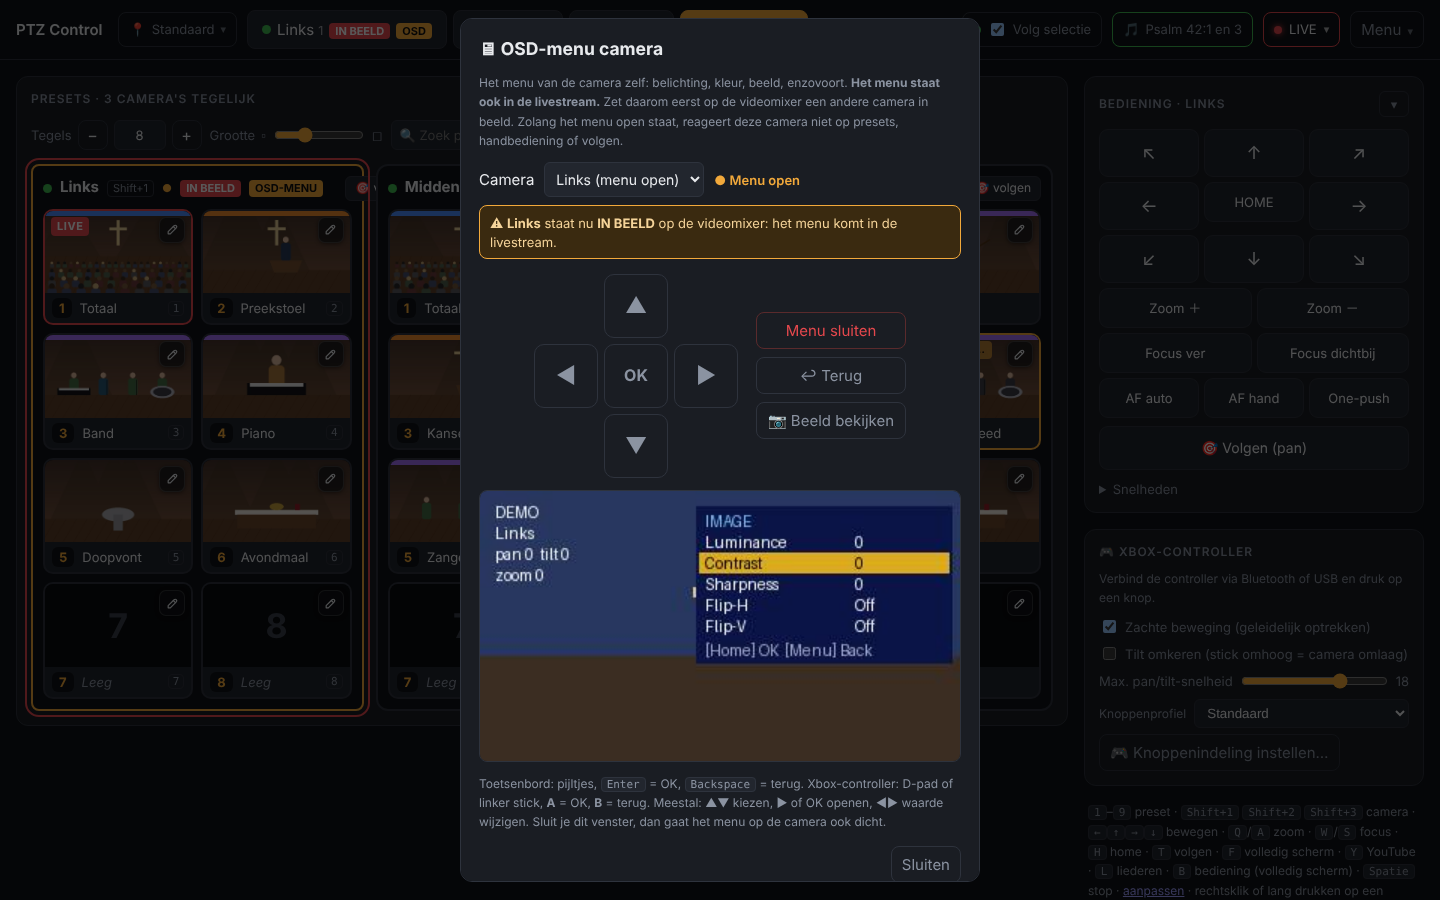
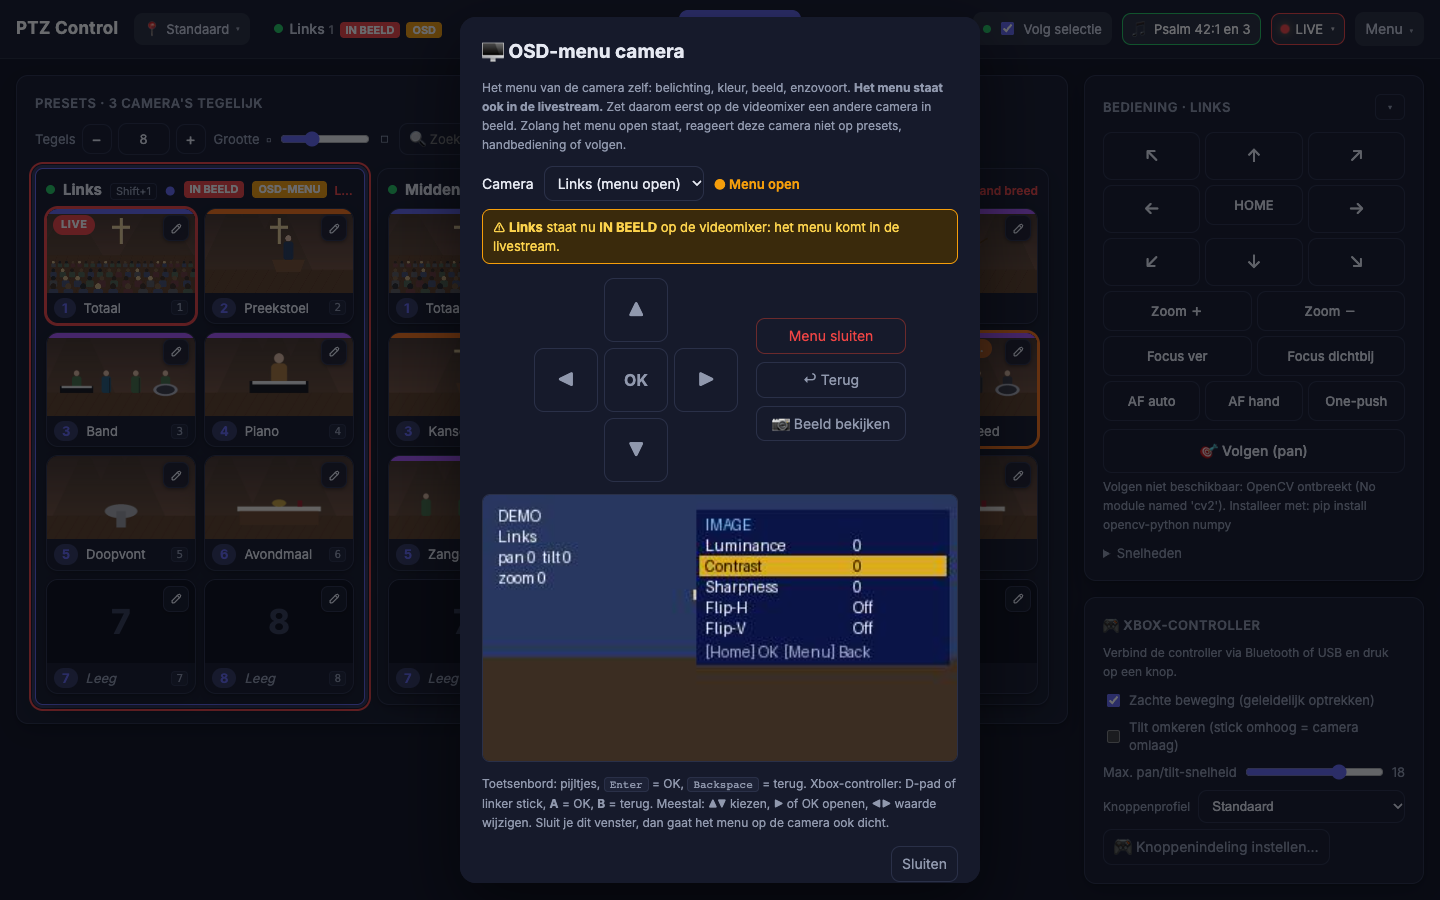
Vormgeving volgens de Voordienst-huisstijl
Plaatsing ongewijzigd, alleen kleuren, lettertype, afronding en schaduw:
- indigo als hoofdkleur (selectie, actief tabblad, primaire knoppen)
- donkere kopbalk, witte kaarten en tegels met zachte schaduw
- nieuwe variabelen --warn (amber, let op) en --busy (oranje, onderweg/oefenstand)
- Inter via Google Fonts, niet-blokkerend met terugval op system-ui
- licht en donker thema allebei in de nieuwe stijl

Screenshots opnieuw gemaakt, rondleiding getest (39 stappen, 3 schermformaten).

diff --git a/index.html b/index.html
@@ -5,6 +5,9 @@
 <meta name="viewport" content="width=device-width, initial-scale=1, user-scalable=no">
 <title>PTZ Control</title>
 <link rel="icon" href="data:,">
+<link rel="preconnect" href="https://fonts.gstatic.com" crossorigin>
+<!-- Inter (huisstijl) niet-blokkerend laden: zonder internet valt hij terug op system-ui en tekent de pagina meteen -->
+<link rel="stylesheet" href="https://fonts.googleapis.com/css2?family=Inter:wght@400;500;600;700&display=swap" media="print" onload="this.media='all'">
 <script>
   // thema vóór het tekenen zetten (geen witte/zwarte flits)
   (function () {
@@ -15,33 +18,44 @@
 </script>
 <style>
   /* Thema: donker (standaard) en licht. Keuze per apparaat via het menu (localStorage.theme: auto/dark/light). */
+  /* Huisstijl (gebaseerd op Voordienst): rustig, licht, één accentkleur (indigo), donkere kopbalk.
+     --accent = hoofdkleur (selectie, actief, primaire knop); --live = LIVE/fout (rood); --ok = groen;
+     --warn = let op (amber); --busy = onderweg/oefenstand (oranje). Huisstijl aanpassen = alleen deze variabelen. */
   :root {
-    --tourdim: rgba(0,0,0,.62);
+    --tourdim: rgba(5,6,12,.6);
     color-scheme: dark;
-    --bg: #111317; --panel: #1a1d23; --panel2: #22262e; --line: #2e333d;
-    --text: #e8eaed; --muted: #8b93a1; --accent: #f2a93b; --live: #e5484d; --ok: #3fb950;
-    --img: #0b0c0f; --imgtxt: #3a404c; --onaccent: #1a1200;
-    --okbg: #12301c; --oktxt: #7ee2a0; --warnbg: #3a2a10; --warntxt: #f5d49a; --errbg: #2b1416; --errline: #5a2a2c;
-    --shadow: rgba(0,0,0,.45); --backdrop: rgba(0,0,0,.65);
-    --editbg: rgba(17,19,23,.72); --editfg: #e8eaed; --editline: rgba(255,255,255,.14);
-    --mixoff: #2a2e36; --mixgreen: #2f9e4f; --mixred: #e5484d; --mixtxt: #ffffff; --logbg: #0d0f12;
-    --pc-rood: #e5484d; --pc-oranje: #f08c2e; --pc-geel: #e8c33c; --pc-groen: #3fb950; --pc-blauw: #4c8dff; --pc-paars: #a371f7;
+    --bg: #0f1220; --panel: #161a2b; --panel2: #1d2236; --line: #2a3048; --hover: #262c44;
+    --text: #e6e9f2; --muted: #9098ad; --accent: #6366f1; --accentdark: #4f46e5; --ring: rgba(129,140,248,.25);
+    --live: #ef4444; --ok: #22c55e; --warn: #f59e0b; --busy: #f97316; --onbusy: #ffffff;
+    --img: #0b0d18; --imgtxt: #343b55; --onaccent: #ffffff;
+    --okbg: #0f2e1b; --oktxt: #86efac; --okline: #166534; --warnbg: #3a2a0c; --warntxt: #fcd34d; --errbg: #3a1416; --errline: #6b2a2c;
+    --shadow: rgba(0,0,0,.45); --backdrop: rgba(5,6,12,.6);
+    --cardshadow: 0 1px 3px rgba(0,0,0,.35), 0 8px 24px rgba(0,0,0,.25);
+    --modalshadow: 0 24px 64px rgba(0,0,0,.5);
+    --hdr: #161a2b; --hdrtxt: #c7ccdb; --hdrbtn: rgba(255,255,255,.08); --hdrhover: rgba(255,255,255,.16); --hdrline: rgba(255,255,255,.07);
+    --editbg: rgba(22,26,43,.85); --editfg: #e6e9f2; --editline: #2a3048;
+    --mixoff: #2a3048; --mixgreen: #22c55e; --mixred: #ef4444; --mixtxt: #ffffff; --logbg: #0f1220;
+    --pc-rood: #ef4444; --pc-oranje: #f97316; --pc-geel: #eab308; --pc-groen: #22c55e; --pc-blauw: #6366f1; --pc-paars: #a855f7;
   }
   :root[data-theme=light] {
-    --tourdim: rgba(20,24,32,.45);
+    --tourdim: rgba(15,18,33,.45);
     color-scheme: light;
-    --bg: #f3f4f6; --panel: #ffffff; --panel2: #eceef2; --line: #d3d8e0;
-    --text: #16181d; --muted: #5d6573; --accent: #e09415; --live: #d6343a; --ok: #1f8f3d;
-    --img: #dde1e7; --imgtxt: #a3abb8; --onaccent: #1a1200;
-    --okbg: #dcf3e2; --oktxt: #17692f; --warnbg: #fff1d6; --warntxt: #7a4a00; --errbg: #fde6e6; --errline: #efb4b6;
-    --shadow: rgba(20,24,32,.18); --backdrop: rgba(20,24,32,.45);
-    --editbg: rgba(255,255,255,.88); --editfg: #2b303a; --editline: rgba(20,24,32,.14);
-    --mixoff: #c9ced6; --mixgreen: #2a9d4b; --mixred: #d6343a; --mixtxt: #ffffff; --logbg: #f7f8fa;
-    --pc-rood: #d6343a; --pc-oranje: #e07b14; --pc-geel: #c9a10e; --pc-groen: #1f8f3d; --pc-blauw: #2f6fe0; --pc-paars: #8250df;
+    --bg: #f4f6fb; --panel: #ffffff; --panel2: #f7f8fc; --line: #e3e7ef; --hover: #f0f2f8;
+    --text: #1c2333; --muted: #6b7488; --accent: #4f46e5; --accentdark: #4338ca; --ring: rgba(79,70,229,.12);
+    --live: #dc2626; --ok: #16a34a; --warn: #d97706; --busy: #ea580c; --onbusy: #ffffff;
+    --img: #e8ebf2; --imgtxt: #b4bccb; --onaccent: #ffffff;
+    --okbg: #dcfce7; --oktxt: #166534; --okline: #bbf7d0; --warnbg: #fef3c7; --warntxt: #92400e; --errbg: #fee2e2; --errline: #f3c4c4;
+    --shadow: rgba(20,25,45,.12); --backdrop: rgba(15,18,33,.45);
+    --cardshadow: 0 1px 3px rgba(20,25,45,.08), 0 8px 24px rgba(20,25,45,.05);
+    --modalshadow: 0 24px 64px rgba(15,18,33,.3);
+    --hdr: #161a2b; --hdrtxt: #c7ccdb; --hdrbtn: rgba(255,255,255,.08); --hdrhover: rgba(255,255,255,.16); --hdrline: rgba(255,255,255,.07);
+    --editbg: rgba(255,255,255,.9); --editfg: #1c2333; --editline: #e3e7ef;
+    --mixoff: #e3e7ef; --mixgreen: #16a34a; --mixred: #dc2626; --mixtxt: #ffffff; --logbg: #f7f8fc;
+    --pc-rood: #dc2626; --pc-oranje: #ea580c; --pc-geel: #d97706; --pc-groen: #16a34a; --pc-blauw: #4f46e5; --pc-paars: #9333ea;
   }
   * { box-sizing: border-box; -webkit-tap-highlight-color: transparent; }
   html, body { margin: 0; background: var(--bg); color: var(--text);
-    font: 15px/1.4 system-ui, -apple-system, "Segoe UI", sans-serif; user-select: none; -webkit-user-select: none; }
+    font: 14px/1.4 "Inter", "Segoe UI", system-ui, -apple-system, sans-serif; user-select: none; -webkit-user-select: none; }
   button { font: inherit; color: inherit; }
 
   header { display: flex; align-items: center; gap: 10px; padding: 10px 16px; border-bottom: 1px solid var(--line);
@@ -114,8 +128,8 @@
   .trk { margin-left: 6px; padding: 3px 9px; border-radius: 6px; border: 1px solid var(--line); background: var(--panel2);
     font-size: 12px; cursor: pointer; white-space: nowrap; }
   .trk.on { background: var(--okbg); border-color: var(--ok); color: var(--oktxt); }
-  .trk.wait { border-color: var(--accent); color: var(--accent); }
-  .trk.warn { background: var(--warnbg); border-color: var(--accent); color: var(--accent); }
+  .trk.wait { border-color: var(--warn); color: var(--warn); }
+  .trk.warn { background: var(--warnbg); border-color: var(--warn); color: var(--warntxt); }
   .tile .tb { position: absolute; bottom: 38px; right: 6px; background: var(--okbg); color: var(--oktxt);
     font-size: 11px; padding: 1px 6px; border-radius: 4px; }
   .camrow2 { display: grid; grid-template-columns: 2.5fr 1fr 1.2fr; gap: 6px; margin: -2px 0 12px; padding-bottom: 10px;
@@ -166,9 +180,9 @@
   #dlgMap .padset { display: flex; justify-content: space-between; align-items: center; flex-wrap: wrap; }
   #padMap .hit { outline: 2px solid var(--accent); outline-offset: 1px; border-radius: 4px; }
   /* onderweg naar een preset, status per camera, kleurlabels, verslepen, sneltoets, ongedaan maken */
-  .tile.moving { border-color: var(--accent); }
-  .tile.moving::after { content: "ONDERWEG…"; position: absolute; top: 6px; left: 6px; background: var(--accent); color: var(--onaccent);
-    font-size: 11px; font-weight: 700; padding: 1px 6px; border-radius: 4px; animation: mvpulse .7s ease-in-out infinite alternate; }
+  .tile.moving { border-color: var(--busy); box-shadow: 0 0 0 2px var(--busy); }
+  .tile.moving::after { content: "ONDERWEG…"; position: absolute; top: 6px; left: 6px; background: var(--busy); color: var(--onbusy);
+    font-size: 11px; font-weight: 700; padding: 2px 8px; border-radius: 999px; animation: mvpulse .7s ease-in-out infinite alternate; }
   @keyframes mvpulse { from { opacity: 1; } to { opacity: .45; } }
   .cdot { display: inline-block; width: 9px; height: 9px; border-radius: 50%; background: var(--muted); flex-shrink: 0; align-self: center; }
   .cdot.ok { background: var(--ok); } .cdot.err { background: var(--live); box-shadow: 0 0 6px var(--live); }
@@ -196,7 +210,7 @@
   body.viewonly #btnStore, body.viewonly #btnLoad, body.viewonly .tile .edit, body.viewonly #ctrlCard, body.viewonly #padCard,
   body.viewonly .colhead .trk, body.viewonly #btnOrderReset, body.viewonly .tilectl, body.viewonly #btnOsd { display: none !important; }
   body.viewonly .tile { cursor: default; }
-  #viewBanner { display: none; background: var(--warnbg); color: var(--warntxt); border-bottom: 1px solid var(--accent); padding: 6px 16px;
+  #viewBanner { display: none; background: var(--warnbg); color: var(--warntxt); border-bottom: 1px solid var(--warn); padding: 6px 16px;
     font-size: 13px; text-align: center; }
   body.viewonly #viewBanner { display: block; }
   /* 🧑 foutbalk (alle schermen, ook volledig scherm) en oefenbalk */
@@ -208,9 +222,9 @@
   #alertBar button, #practiceBar button { background: rgba(0,0,0,.18); color: inherit; border: 1px solid rgba(255,255,255,.55); border-radius: 7px;
     padding: 3px 10px; font: inherit; font-size: 13px; font-weight: 600; cursor: pointer; }
   #alertBar.ok button { display: none; }
-  #practiceBar { background: var(--accent); color: #1a1205; }
+  #practiceBar { background: var(--busy); color: var(--onbusy); }
   #practiceBar button { border-color: rgba(0,0,0,.35); }
-  body.practice { box-shadow: inset 0 0 0 4px var(--accent); }
+  body.practice { box-shadow: inset 0 0 0 4px var(--busy); }
   @keyframes alertPulse { 50% { filter: brightness(1.25); } }
   #alertBar.new { animation: alertPulse .8s ease-in-out 3; }
   #pinInput { font-size: 28px; letter-spacing: 10px; text-align: center; width: 100%; padding: 10px; border-radius: 8px;
@@ -309,14 +323,14 @@
     white-space: nowrap; flex-shrink: 0; align-self: center; }
   .tab .onair { margin-left: 6px; }
   /* 🖥 OSD-menu van de camera */
-  .colhead .osdtag, .tab .osdtag { background: var(--accent); color: #111; font-size: 11px; font-weight: 700; border-radius: 4px;
+  .colhead .osdtag, .tab .osdtag { background: var(--warn); color: var(--onbusy); font-size: 11px; font-weight: 700; border-radius: 4px;
     padding: 1px 6px; white-space: nowrap; flex-shrink: 0; align-self: center; }
   .tab .osdtag { margin-left: 6px; }
   #dlgOsd { width: min(520px, 94vw); }
   .osdtop { display: flex; gap: 10px; align-items: center; flex-wrap: wrap; }
   .osdtop select { width: auto !important; min-width: 160px; }
   .osdst { font-size: 13px; font-weight: 600; color: var(--muted); }
-  .osdst.on { color: var(--accent); }
+  .osdst.on { color: var(--warn); }
   .osdwrap { display: flex; gap: 18px; align-items: center; justify-content: center; margin-top: 14px; flex-wrap: wrap; }
   .osdpad { display: grid; grid-template-columns: repeat(3, 64px); grid-template-rows: repeat(3, 64px); gap: 6px; }
   .osdpad button { font-size: 22px; padding: 0; border-radius: 10px; }
@@ -332,15 +346,15 @@
   .bcams td, .bcams th { padding: 6px 8px; border-top: 1px solid var(--line); text-align: left; vertical-align: top; }
   .bcams th { color: var(--muted); font-weight: 500; font-size: 12px; }
   .bstat { font-size: 12px; }
-  .bstat.ok { color: var(--oktxt); } .bstat.warn { color: var(--accent); } .bstat.err { color: var(--live); } .bstat.busy { color: var(--accent); }
-  .warnbox { background: var(--warnbg); border: 1px solid var(--accent); color: var(--warntxt); border-radius: 8px; padding: 8px 10px;
+  .bstat.ok { color: var(--oktxt); } .bstat.warn { color: var(--warn); } .bstat.err { color: var(--live); } .bstat.busy { color: var(--busy); }
+  .warnbox { background: var(--warnbg); border: 1px solid var(--warn); color: var(--warntxt); border-radius: 8px; padding: 8px 10px;
     font-size: 13px; margin-top: 8px; }
   .tilectl { display: flex; gap: 6px; align-items: center; font-size: 13px; color: var(--muted); }
   .tilectl input[type=number] { width: 52px; background: var(--panel2); border: 1px solid var(--line); color: var(--text);
     border-radius: 6px; padding: 5px 4px; font: inherit; text-align: center; -moz-appearance: textfield; }
   .tilectl input[type=number]::-webkit-inner-spin-button { -webkit-appearance: none; }
   .tbtn { width: 30px; height: 30px; padding: 0; font-size: 16px; line-height: 1; color: var(--text); }
-  .hidden-hint { font-size: 12px; color: var(--accent); margin-top: 6px; cursor: pointer; }
+  .hidden-hint { font-size: 12px; color: var(--warn); margin-top: 6px; cursor: pointer; }
   .camsec { margin-bottom: 18px; }
   .camsec h3 { font-size: 14px; margin: 0 0 8px; display: flex; gap: 8px; align-items: center; }
   .camsec h3 button { font-size: 12px; }
@@ -379,7 +393,7 @@
     touch-action: none; display: grid; place-items: center; font-size: 18px; }
   .btn:active, .btn.held { background: var(--accent); color: var(--onaccent); border-color: var(--accent); }
   .btn.sm { font-size: 13px; height: 40px; }
-  .btn.on { background: var(--ok); border-color: var(--ok); color: #04150a; }
+  .btn.on { background: var(--okbg); border-color: var(--okline); color: var(--oktxt); }
   .pair { display: grid; grid-template-columns: 1fr 1fr; gap: 5px; margin-top: 5px; }
   .tri { display: grid; grid-template-columns: repeat(3, 1fr); gap: 5px; margin-top: 5px; }
   details { margin-top: 10px; }
@@ -397,7 +411,8 @@
     background: var(--panel2); border: 1px solid var(--line); color: var(--text); border-radius: 6px; padding: 7px;
     font: inherit; font-size: 14px; width: 100%; user-select: text; -webkit-user-select: text; }
   .actions { display: flex; justify-content: space-between; gap: 8px; margin-top: 14px; flex-wrap: wrap; }
-  .primary { background: var(--accent); color: var(--onaccent); border: 0; border-radius: 8px; padding: 9px 16px; font-weight: 600; cursor: pointer; }
+  .primary { background: var(--accent); color: var(--onaccent); border: 0; border-radius: 9px; padding: 9px 16px; font-weight: 600; cursor: pointer; }
+  .primary:hover { background: var(--accentdark); }
   .danger { color: var(--live); border-color: var(--errline); }
   #dlgPreset { width: min(460px, 94vw); }
   #dlgPreset .img { aspect-ratio: 16/9; background: var(--img) center/cover no-repeat; border-radius: 8px; margin-bottom: 12px;
@@ -420,7 +435,7 @@
   #btnYt .ytdot { width: 8px; height: 8px; border-radius: 50%; background: var(--muted); }
   #btnYt.live { border-color: var(--live); color: var(--text); }
   #btnYt.live .ytdot { background: var(--live); box-shadow: 0 0 6px var(--live); animation: padpulse 1s ease-in-out infinite alternate; }
-  #btnYt.upcoming .ytdot { background: var(--accent); }
+  #btnYt.upcoming .ytdot { background: var(--warn); }
   #btnYt.shown { background: var(--panel2); }
   #btnYt .caret, #btnWs .caret { font-size: 11px; opacity: .7; }
   #btnWs { display: flex; gap: 6px; align-items: center; font-size: 13px; max-width: 220px; }
@@ -451,7 +466,7 @@
   .ythead .ytbadge { background: var(--muted); color: #fff; font-size: 10px; font-weight: 700; padding: 1px 5px; border-radius: 4px;
     letter-spacing: .05em; flex: none; }
   #ytWin.live .ytbadge { background: var(--live); }
-  #ytWin.upcoming .ytbadge { background: var(--accent); color: var(--onaccent); }
+  #ytWin.upcoming .ytbadge { background: var(--warn); color: var(--onbusy); }
   .ythead button { background: none; border: 0; color: var(--muted); cursor: pointer; padding: 2px 6px; border-radius: 5px;
     font-size: 13px; line-height: 1.2; flex: none; }
   .ythead button:hover { background: var(--panel2); color: var(--text); }
@@ -513,6 +528,52 @@
   #tour .tcount { font-size: 12px; color: var(--muted); flex: 1; white-space: nowrap; }
   #tour .tbar { height: 3px; background: var(--line); border-radius: 2px; margin-top: 10px; overflow: hidden; }
   #tour .tbar i { display: block; height: 100%; background: var(--accent); transition: width .25s; }
+
+  /* ---- huisstijl (Voordienst): vormen, schaduw, kopbalk. Alleen variabelen, geen losse kleuren ---- */
+  header { background: var(--hdr); color: var(--onaccent); border-bottom: 1px solid var(--hdrline); }
+  header h1 { font-size: 17px; font-weight: 700; letter-spacing: .3px; color: var(--onaccent); }
+  header .icon { background: var(--hdrbtn); border: 0; color: var(--hdrtxt); border-radius: 9px; }
+  header .icon:hover { background: var(--hdrhover); color: var(--onaccent); }
+  header .tab { background: transparent; border: 0; color: var(--hdrtxt); border-radius: 9px; font-weight: 500; }
+  header .tab:hover { background: var(--hdrbtn); color: var(--onaccent); }
+  header .tab.active { background: var(--accent); color: var(--onaccent); }
+  header .tab.all { border: 1px dashed var(--hdrhover); }
+  header .tab.all.active { border-color: var(--accent); }
+  header #btnLock.locked { box-shadow: inset 0 0 0 1px var(--warn); color: var(--warn); }
+  header #btnYt.live { color: var(--onaccent); box-shadow: inset 0 0 0 1px var(--live); }
+  header #btnYt.shown { background: var(--hdrhover); }
+  header #btnSongBar.on { color: var(--onaccent); box-shadow: inset 0 0 0 1px var(--ok); }
+  .card { box-shadow: var(--cardshadow); padding: 18px; }
+  .card h2 { font-size: 13px; letter-spacing: .5px; }
+  .col { background: var(--panel); border: 1px solid var(--line); box-shadow: var(--cardshadow); }
+  .col.sel { border-color: var(--accent); box-shadow: 0 0 0 3px var(--ring), var(--cardshadow); }
+  .colhead .ctl { font-weight: 600; }
+  .tile { border: 1px solid var(--line); border-radius: 12px; background: var(--panel); box-shadow: var(--cardshadow); }
+  .tile:hover { border-color: var(--accent); }
+  .tile .num { background: var(--ring); color: var(--accent); border-radius: 999px; padding: 1px 8px; }
+  .tile.live { border-color: var(--live); box-shadow: 0 0 0 2px var(--live); }
+  .tile.live::after { border-radius: 999px; padding: 2px 8px; }
+  .tile.moving { border-color: var(--busy); box-shadow: 0 0 0 2px var(--busy); }   /* onderweg gaat voor LIVE */
+  .chip, .trk, .icon { border-radius: 9px; }
+  .chip { background: var(--panel); font-weight: 500; }
+  .chip:hover, .icon:hover, .trk:hover { background: var(--hover); }
+  .chip.on, .chip.on:hover { background: var(--live); }
+  .btn { background: var(--panel); font-weight: 500; transition: background .12s, border-color .12s; }
+  .btn:hover { background: var(--hover); }
+  .btn:active, .btn.held { background: var(--accent); }
+  .btn.trackbtn.on, .trk.on, .padbadge { border-color: var(--okline); }
+  dialog input[type=text], dialog input[type=password], dialog input[type=number], dialog select,
+  #presetSearch, .tilectl input[type=number], .padprofrow select, .padprofcard select, #dlgAccess input[type=password], #pinInput {
+    background: var(--panel); border: 1px solid var(--line); border-radius: 9px; padding: 7px 9px; }
+  #presetSearch, .tilectl input[type=number] { padding: 6px 10px; }
+  input:focus, select:focus, textarea:focus { outline: none; border-color: var(--accent) !important; box-shadow: 0 0 0 3px var(--ring); }
+  input[type=checkbox] { accent-color: var(--accent); }
+  .menu { border-radius: 12px; box-shadow: 0 12px 32px var(--shadow); }
+  .mi { border-radius: 9px; }
+  .mi:hover, .mi:focus-visible { background: var(--hover); }
+  dialog { border: 0; border-radius: 16px; padding: 22px; box-shadow: var(--modalshadow); }
+  dialog h3 { font-size: 19px; }
+  #toast, #undoNote { border-radius: 9px; box-shadow: var(--cardshadow); }
 </style>
 </head>
 <body>
@@ -1991,7 +2052,7 @@ function renderBackup() {
         <td><b>${esc(c.name)}</b><br><span class="small">${esc(c.host)}</span></td>
         <td class="small">${n ? `${n} presetposities` : "geen presetposities"} · ${img ? "beeldinstellingen" : "geen beeld"}${when ? `<br>gelezen ${fmtDate(when)}` : ""}</td>
         <td><span class="bstat ${cls}">${st ? esc(st.status + (st.msg ? " · " + st.msg : "")) : ""}</span>
-          ${st?.errors?.length ? `<div class="small" style="color:var(--accent)">${st.errors.map(esc).join("<br>")}</div>` : ""}</td></tr>`;
+          ${st?.errors?.length ? `<div class="small" style="color:var(--warn)">${st.errors.map(esc).join("<br>")}</div>` : ""}</td></tr>`;
     }).join("");
   $("#bkTable").dataset.init = "1";
   $("#bkCapture").disabled = $("#bkApply").disabled = job.running;
@@ -2081,7 +2142,7 @@ function renderLoad() {
     return `<tr><td><input type="checkbox" data-cam="${esc(c.id)}" ${first || prev.has(c.id) ? "checked" : ""}></td>
       <td><b>${esc(c.name)}</b><br><span class="small">${esc(c.host)}</span></td>
       <td><span class="bstat ${cls}">${st ? esc(st.status + (st.msg ? " · " + st.msg : "")) : ""}</span>
-        ${st?.errors?.length ? `<div class="small" style="color:var(--accent)">${st.errors.map(esc).join("<br>")}</div>` : ""}</td></tr>`;
+        ${st?.errors?.length ? `<div class="small" style="color:var(--warn)">${st.errors.map(esc).join("<br>")}</div>` : ""}</td></tr>`;
   }).join("");
   $("#ldTable").dataset.init = "1";
   $("#ldStart").disabled = job.running;
@@ -2115,11 +2176,11 @@ function renderCap() {
       `<span title="${esc(t.note || "")}" style="color:${t.ok ? "var(--oktxt)" : "var(--live)"}">${t.n}${t.ok ? "✓" : "✗"}</span>`).join(" ")}</div>` : "";
     const summary = cap ? `<b>${cap.max ? `max. preset ${cap.max}` : "geen werkende preset"}</b> · ${cap.total} bruikbaar` +
       (cap._tested ? ` <span class="small">(${fmtDate(cap._tested)})</span>` : "") +
-      (cap.gaps?.length ? `<div class="small" style="color:var(--accent)">Let op: lager nummer werkte niet: ${cap.gaps.join(", ")}</div>` : "") : "";
+      (cap.gaps?.length ? `<div class="small" style="color:var(--warn)">Let op: lager nummer werkte niet: ${cap.gaps.join(", ")}</div>` : "") : "";
     return `<tr><td><input type="checkbox" data-cam="${esc(c.id)}" ${first || prev.has(c.id) ? "checked" : ""}></td>
       <td><b>${esc(c.name)}</b><br><span class="small">${esc(c.host)}</span></td>
       <td>${st && st.status !== "klaar" && st.status !== "klaar met meldingen" ? `<span class="bstat ${cls}">${esc(st.status + (st.msg ? " · " + st.msg : ""))}</span>` : summary || '<span class="small">nog niet getest</span>'}
-        ${detail}${st?.errors?.length ? `<div class="small" style="color:var(--accent)">${st.errors.map(esc).join("<br>")}</div>` : ""}</td></tr>`;
+        ${detail}${st?.errors?.length ? `<div class="small" style="color:var(--warn)">${st.errors.map(esc).join("<br>")}</div>` : ""}</td></tr>`;
   }).join("");
   $("#capTable").dataset.init = "1";
   $("#capStart").disabled = job.running;

diff --git a/CLAUDE.md b/CLAUDE.md
@@ -50,6 +50,7 @@ Legenda: ✅ geverifieerd (getest of in officiële docs gevonden) · ⚠ aann
 - Live-sync tussen schermen via **Server-Sent Events** (`/api/events`): `select`, `preset`, `thumb`, `config`, `track`, `job`, `state`, `youtube`, `midi`, `liederen`, `moving`, `camstatus`, `access`, `autobackup`, `log`; `workspace` heeft ook `practice`.
 - Per-apparaat-instellingen (snelheden, Xbox-opties, thema, YouTube-venster) staan in **localStorage**, niet op de server. Tegelgrootte en aantal tegels staan in `cameras.json` (gedeeld).
 - 🧑 **Thema** licht/donker via `html[data-theme]` en CSS-variabelen (`:root` = donker, `:root[data-theme=light]` = licht). Geen losse kleurcodes meer in de CSS gebruiken: voeg een variabele toe aan beide blokken. `localStorage.theme` = `auto`/`dark`/`light` (auto volgt `prefers-color-scheme`); een klein script in `<head>` zet het thema vóór het tekenen. Wisselen alleen via het menu (`#btnTheme`, licht ↔ donker); 🧑 het thema staat op verzoek **niet** in een instellingenvenster. Staat er nog `auto`, dan blijft dat gelden tot iemand wisselt.
+- 🧑 **Huisstijl = Voordienst** (op verzoek, 10 nov 2026): plaatsing ongewijzigd, alleen vormgeving. Licht: `--bg #f4f6fb`, witte kaarten (`--panel`) met `--cardshadow`, randen `#e3e7ef`; donker: navy-tinten van de sidebar. **`--accent` = indigo hoofdkleur** (selectie, actief tabblad, `.primary`, schuifregelaars; `--accentdark` hover, `--ring` focusring); `--live` rood = LIVE/fout; `--ok` groen; **`--warn` amber = let op** (wachten, waarschuwingen, gepland, OSD-tag); **`--busy` oranje = ONDERWEG… en oefenstand**. Kop = donkere balk (`--hdr`, `--hdrtxt`, `--hdrbtn`, `--hdrhover`, `--hdrline`; knoppen zonder rand, status via `box-shadow: inset`). Afronding: kaarten/tegels 12px, knoppen/velden 9px, dialogen 16px, labels rond (999px). Lettertype Inter 14px via Google Fonts, **niet-blokkerend** (`media=print` + `onload`), terugval system-ui (Mac mini kan offline zijn). Regels staan in het blok *huisstijl* onderaan de `<style>`. Nieuwe kleur = variabele in **beide** `:root`-blokken.
 - 🧑 **Bewerk-knop op presettegels**: SVG-potlood op een knop met themakleuren (`--editbg/--editfg/--editline`); was in het lichte thema te donker. Klikdetectie via `closest(".edit")`.
 - 🧑 **Geen ⚙ Instellingen meer in het 🎮-menu** (op verzoek weggehaald, dubbel met het YouTube-menu). De dialoog `#dlgPrefs` (titel *YouTube-kanaal*, alleen het kanaal) opent via *Kanaal instellen…* in `#ytMenu` en via de knop in het YouTube-venster als er nog geen kanaal is. De camera-dialoog heet in het menu 📷 Camera's (id `btnSettings` ongewijzigd).
 - Standaardweergave is **"Alle camera's"** (kolommen) zodra er >1 camera is.

diff --git a/README.md b/README.md
@@ -291,6 +291,8 @@ De instellingen gelden voor alle schermen en worden per workspace en in de back-
 ## Licht of donker
 Menu → **☀ Lichte modus / 🌙 Donkere modus** wisselt direct. Elk apparaat onthoudt zijn eigen keuze.
 
+De vormgeving volgt de huisstijl van de Voordienst app: lichtgrijze achtergrond met witte kaarten, één hoofdkleur (indigo) voor selectie en knoppen, een donkere kopbalk en het lettertype Inter (zonder internet valt de app terug op het systeemlettertype). Rood = LIVE/fout, groen = in orde, amber = let op, oranje = onderweg/oefenstand.
+
 ![Lichte modus](docs/screenshots/hoofdscherm-licht.png)
 
 Op een telefoon of smalle tablet staan de onderdelen onder elkaar:
